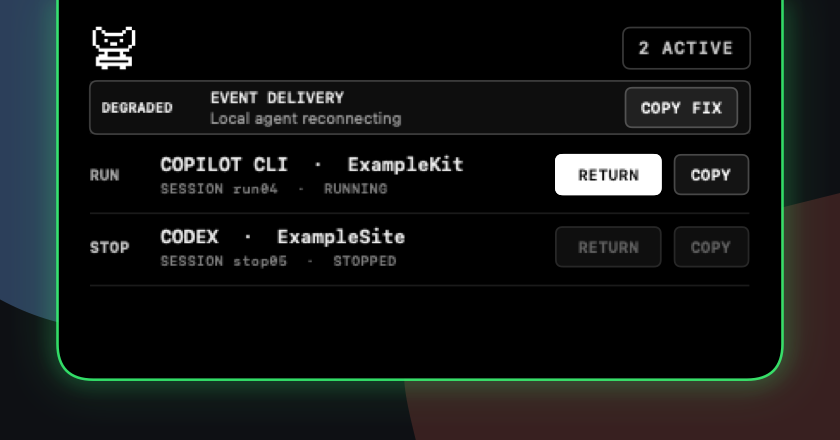
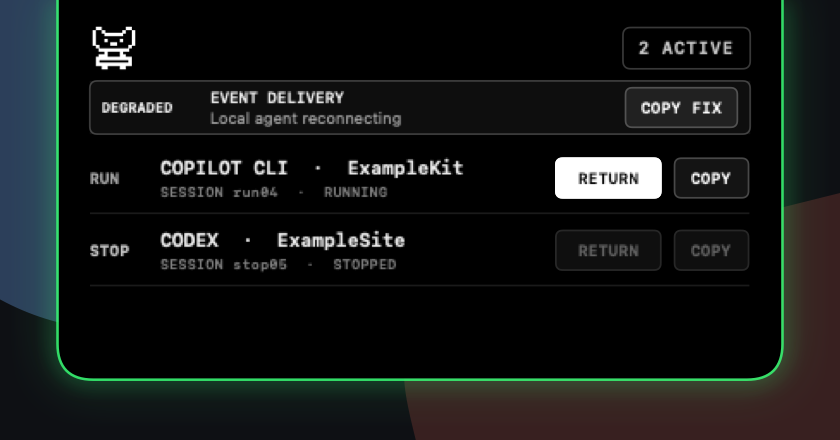
fix: center expanded row actions

diff --git a/internal/app/macos/tests/SessionSwipeMotionTests.swift b/internal/app/macos/tests/SessionSwipeMotionTests.swift
@@ -90,7 +90,7 @@ extension MewsAppModelTests {
         try motionExpect(
             action.geometry.trackWidth == 240 && action.geometry.buttonWidth == 228 &&
                 action.geometry.height == 24 && action.geometry.cornerRadius == 4 &&
-                action.geometry.verticalOffset == -2,
+                action.geometry.verticalOffset == 0,
             "a longer track must elongate the red button while preserving its height, corners and centering"
         )
     }
@@ -98,10 +98,13 @@ extension MewsAppModelTests {
     private static func testNativeSwipeSettle() throws {
         let fixture = try SwipeMotionFixture()
         defer { fixture.close() }
-        let controlHeights = try [238, 298].map { try fixture.captureControlHeight(column: $0) }
+        let controlBounds = try [238, 298].map { try fixture.captureControlBounds(column: $0) }
         try motionExpect(
-            controlHeights.allSatisfy { $0 == 24 },
-            "RETURN and COPY must render at the same 24-point height as HIDE; rendered \(controlHeights)"
+            controlBounds.allSatisfy {
+                $0.height == SessionRowLayout.actionButtonHeight &&
+                    abs($0.midY - SessionRowLayout.rowHeight / 2) <= 0.5
+            },
+            "RETURN and COPY must render at the vertical center of the row; rendered \(controlBounds)"
         )
         fixture.beginDrag(distance: 28)
         let dragged = try fixture.captureActionBounds()
@@ -118,6 +121,10 @@ extension MewsAppModelTests {
         try motionExpect(
             abs((frames.last?.width ?? 0) - 44) <= 1 && fixture.persistence.requests.isEmpty,
             "a short swipe should settle to one 44-point HIDE button without submitting"
+        )
+        try motionExpect(
+            abs((frames.last?.midY ?? 0) - SessionRowLayout.rowHeight / 2) <= 0.5,
+            "the settled HIDE button must use the same vertical center as RETURN and COPY"
         )
     }
 

diff --git a/internal/app/macos/tests/SessionSwipePresentationTests.swift b/internal/app/macos/tests/SessionSwipePresentationTests.swift
@@ -61,7 +61,7 @@ extension MewsAppModelTests {
                 fullSwipe.actionWidth(rowWidth: 320) == 308 &&
                 fullSwipe.actionHeight(rowWidth: 320) == 24 &&
                 fullSwipe.actionCornerRadius(rowWidth: 320) == 4 &&
-                fullSwipe.actionVerticalOffset(rowWidth: 320) == -2 &&
+                fullSwipe.actionVerticalOffset(rowWidth: 320) == 0 &&
                 fullSwipe.usesFullWidthAction(rowWidth: 320),
             "commit-ready should stretch HIDE across the inset track at the shared button height"
         )
@@ -81,7 +81,7 @@ extension MewsAppModelTests {
                 shortSwipe.contentOffset(rowWidth: 320) == -56 &&
                 shortSwipe.actionHeight(rowWidth: 320) == 24 &&
                 shortSwipe.actionCornerRadius(rowWidth: 320) == 4 &&
-                shortSwipe.actionVerticalOffset(rowWidth: 320) == -2 &&
+                shortSwipe.actionVerticalOffset(rowWidth: 320) == 0 &&
                 !shortSwipe.usesFullWidthAction(rowWidth: 320) &&
                 shortSwipe.acceptsSwipeInput,
             "a short swipe should reveal a COPY-sized HIDE button"

diff --git a/internal/app/macos/tests/SessionSwipeMotionTestSupport.swift b/internal/app/macos/tests/SessionSwipeMotionTestSupport.swift
@@ -138,7 +138,7 @@ final class SwipeMotionFixture {
         return Double(pixel[3]) / 255
     }
 
-    func captureControlHeight(column: Int) throws -> CGFloat {
+    func captureControlBounds(column: Int) throws -> CGRect {
         let rowHeight = Int(SessionRowLayout.rowHeight)
         guard let bitmap = try captureDocument(), let pixels = bitmap.bitmapData,
               column >= 0, bitmap.pixelsWide > column, bitmap.pixelsHigh >= rowHeight else {
@@ -150,7 +150,7 @@ final class SwipeMotionFixture {
         guard let first = paintedRows.first, let last = paintedRows.last else {
             throw SwipeMotionTestError.expectation("the resting control must contain rendered pixels")
         }
-        return CGFloat(last - first + 1)
+        return CGRect(x: column, y: first, width: 1, height: last - first + 1)
     }
 
     private func captureDocument() throws -> NSBitmapImageRep? {

diff --git a/internal/app/macos/NotchSessionContentView.swift b/internal/app/macos/NotchSessionContentView.swift
@@ -128,7 +128,6 @@ private struct NotchSessionRowsView: View {
                 }
             }
         )
-        .padding(.bottom, SessionRowLayout.contentBottomInset)
         .frame(height: SessionRowLayout.rowHeight)
         .overlay(rule, alignment: .bottom)
         .accessibilityElement(children: .contain)

diff --git a/internal/app/macos/SessionListPresentationModel.swift b/internal/app/macos/SessionListPresentationModel.swift
@@ -9,7 +9,6 @@ enum SessionRowLayout {
     static let actionButtonCornerRadius: CGFloat = 4
     static let actionFontSize: CGFloat = 9
     static let actionTracking: CGFloat = 0.35
-    static let contentBottomInset: CGFloat = 4
 }
 
 struct SessionSwipeRowVisual: Equatable {

diff --git a/internal/app/macos/SessionSwipeActionView.swift b/internal/app/macos/SessionSwipeActionView.swift
@@ -29,7 +29,7 @@ struct SessionSwipeActionGeometry: Equatable {
     }
 
     var verticalOffset: CGFloat {
-        return -SessionRowLayout.contentBottomInset / 2
+        return 0
     }
 
     var labelOpacity: Double {

diff --git a/changelog.d/141.fixed.md b/changelog.d/141.fixed.md
@@ -1,0 +1,1 @@
+Vertically center the expanded session row actions and keep the swipe-revealed HIDE control aligned throughout its transition.
